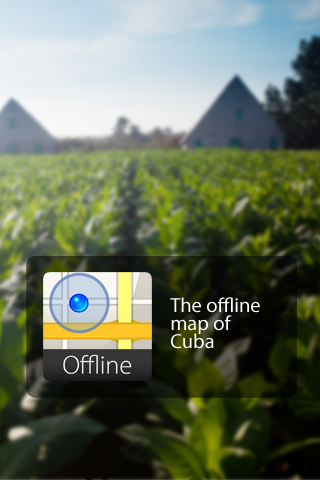
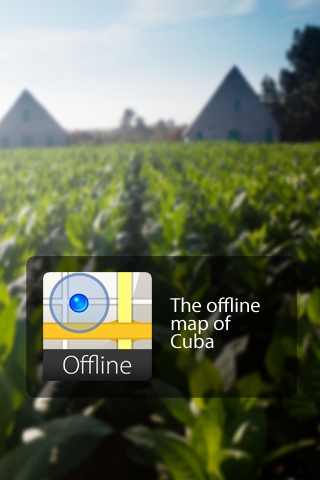
several fixes

diff --git a/Classes/tubeAppDelegate.m b/Classes/tubeAppDelegate.m
@@ -26,7 +26,7 @@ void uncaughtExceptionHandler(NSException *exception) {
 }
 
 - (void)applicationDidFinishLaunching:(UIApplication *)application {
-    
+    [[UIApplication sharedApplication] setStatusBarHidden:NO withAnimation:UIStatusBarAnimationNone];
     NSSetUncaughtExceptionHandler(&uncaughtExceptionHandler);
 	MainViewController *aController = [[MainViewController alloc] init];
 	self.mainViewController = aController;
@@ -175,6 +175,14 @@ void uncaughtExceptionHandler(NSException *exception) {
     [dict release];
     
     return cityFileName;
+}
+
+-(void)getDefaultExtent:(CGPoint*)pos level:(int*)level
+{
+    // TODO loading
+    pos->x = 0.26f;
+    pos->y = 0.41f;
+    *level = 5;
 }
 
 - (void)dealloc {

diff --git a/Classes/MainView.m b/Classes/MainView.m
@@ -92,7 +92,12 @@ NSInteger const toolbarWidth=320;
     [containerView addSubview:mapView.midground2];
     
 	//TODO
-	[containerView setContentOffset:CGPointMake(mapView.size.width * 0.25f * mapView.Scale, mapView.size.height * 0.25f * mapView.Scale ) animated:NO];
+    CGPoint pos;
+    int level;
+    [appDelegate getDefaultExtent:&pos level:&level];
+    CGFloat scale = mapView.MinScale * (1 << level);
+    [containerView setZoomScale:scale animated:YES];
+	[containerView setContentOffset:CGPointMake(mapView.size.width * pos.x * scale, mapView.size.height * pos.y * scale ) animated:YES];
 	
 	stationNameView = [[UIView alloc] initWithFrame:self.frame];
 	[stationNameView setOpaque:YES];

diff --git a/Classes/MyTiledLayer.m b/Classes/MyTiledLayer.m
@@ -19,9 +19,9 @@
 }
 
 // выключаем фейд рисуемых участков, чем экономим 1/4 секунды на участок
-+(CFTimeInterval)fadeDuration
+/*+(CFTimeInterval)fadeDuration
 {
-    return 0.001;
+    return 0.5;
 }
-
+*/
 @end

diff --git a/Classes/tubeAppDelegate.h b/Classes/tubeAppDelegate.h
@@ -37,6 +37,7 @@ static void RGBtoHSV( float r, float g, float b, float *h, float *s, float *v );
 -(NSString*)nameCurrentCity;
 -(NSString*)getDefaultMapName;
 -(NSString*)getDefaultCityName;
+-(void)getDefaultExtent:(CGPoint*)pos level:(int*)level;
 
 @end
 
